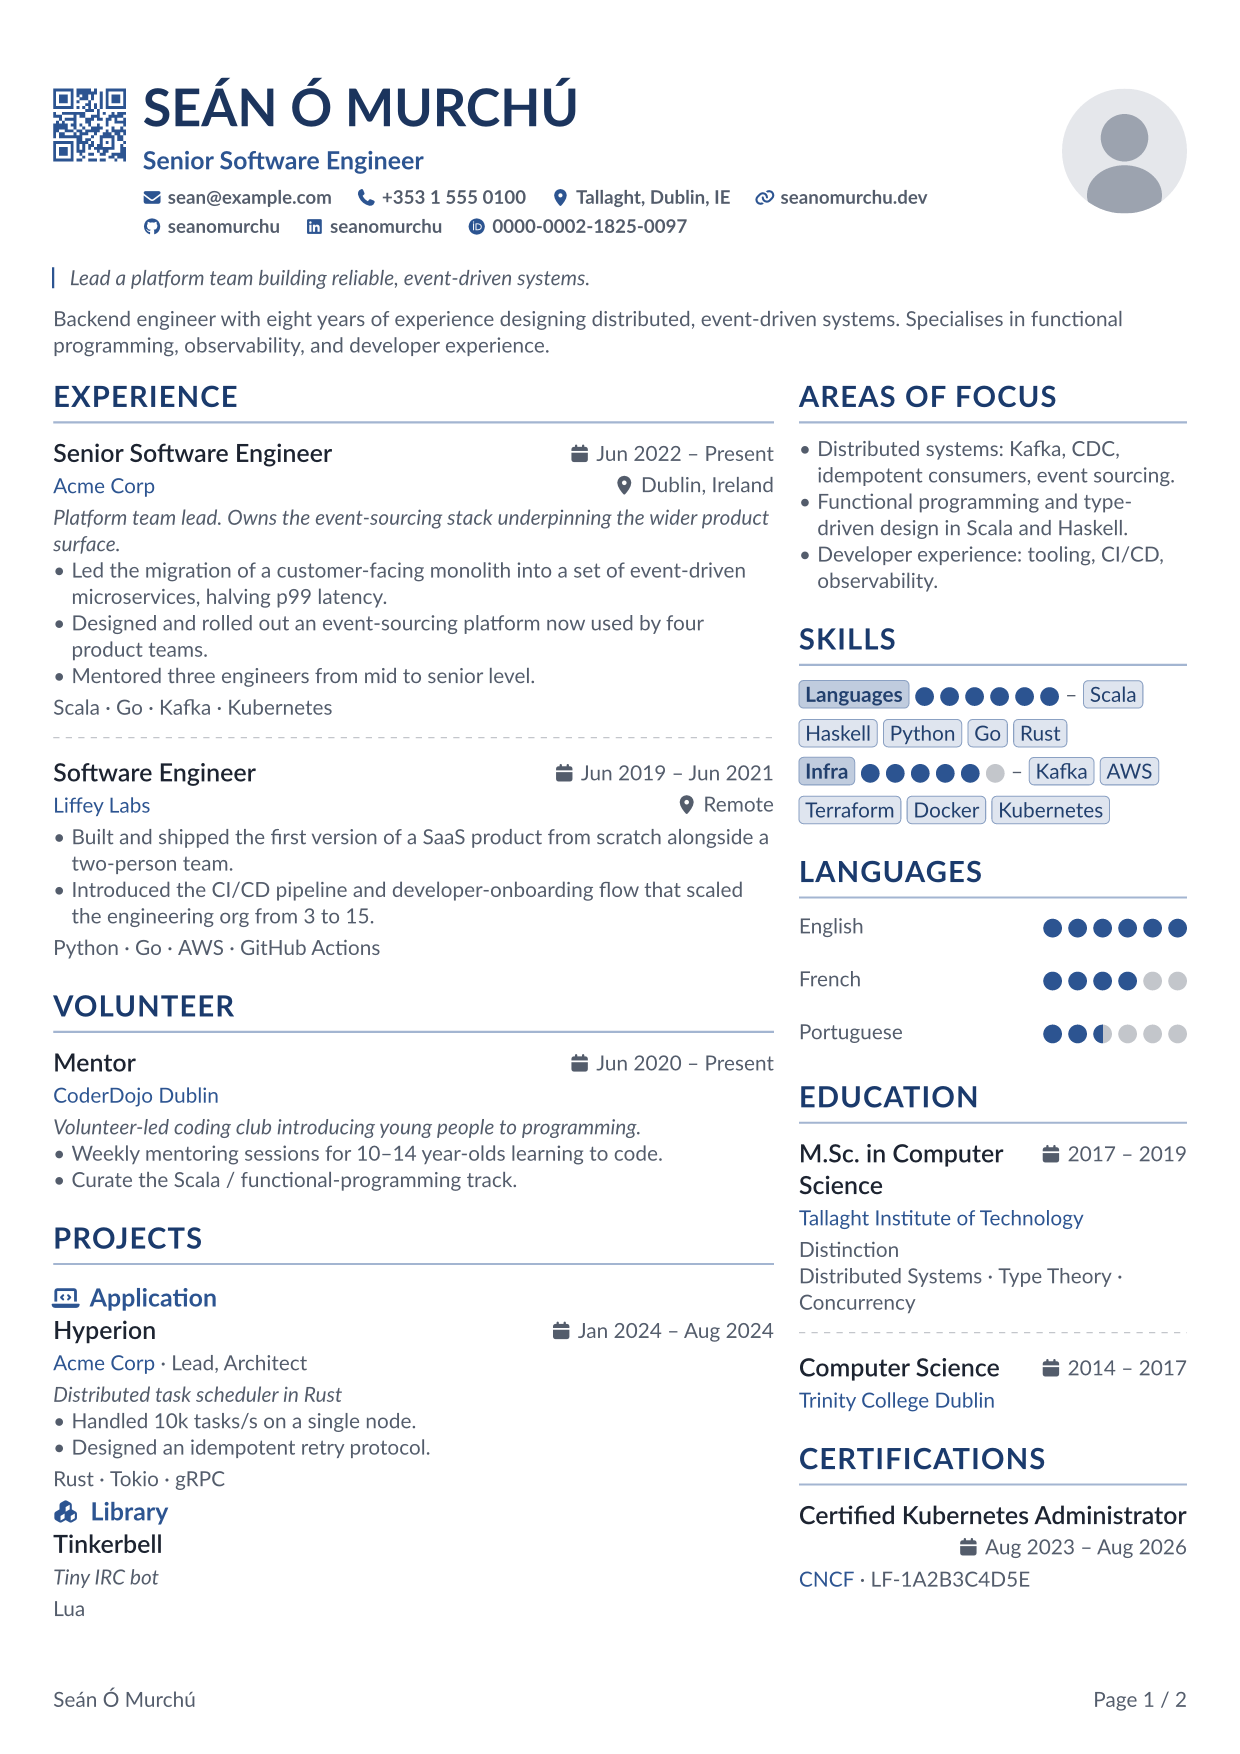
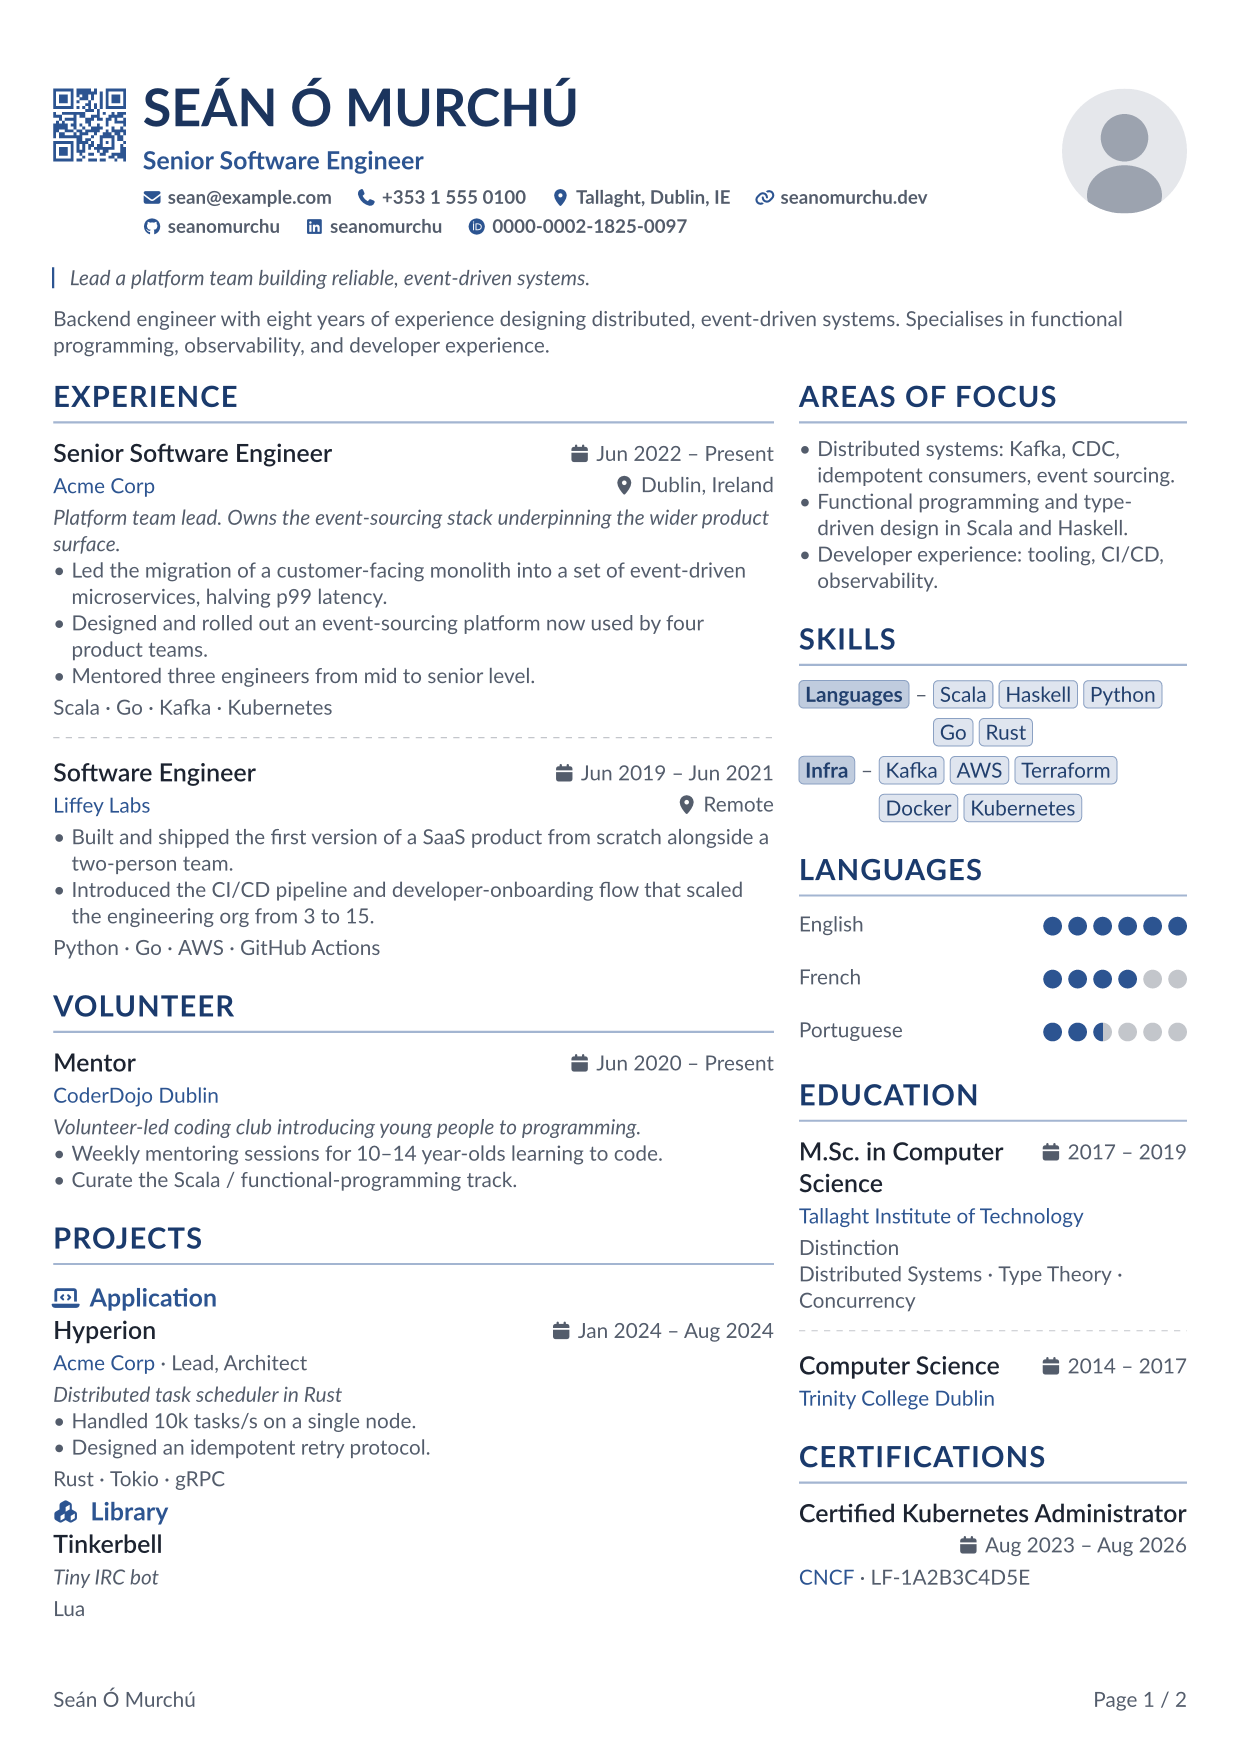
docs: list every feature the full example shows
Drop the skill levels (supported, not showcased), and keep the header comment as the one list of what the example renders, the areas of focus, contact channels and portrait included. The README's page-2 alt text follows the new content.

diff --git a/README.md b/README.md
@@ -30,7 +30,7 @@ The full example, every section in use, over two pages ([source](https://github.
 
 | Page 1 | Page 2 |
 | :---: | :---: |
-| ![Alta CV page 1: header, experience, side-panel sections.](examples/example_full-1.png) | ![Alta CV page 2: projects, publications grouped by type, certificates, awards.](examples/example_full-2.png) |
+| ![Alta CV page 1: header, experience, side-panel sections.](examples/example_full-1.png) | ![Alta CV page 2: publications grouped by type, interests, certificates, awards, references.](examples/example_full-2.png) |
 
 ## Contents
 
